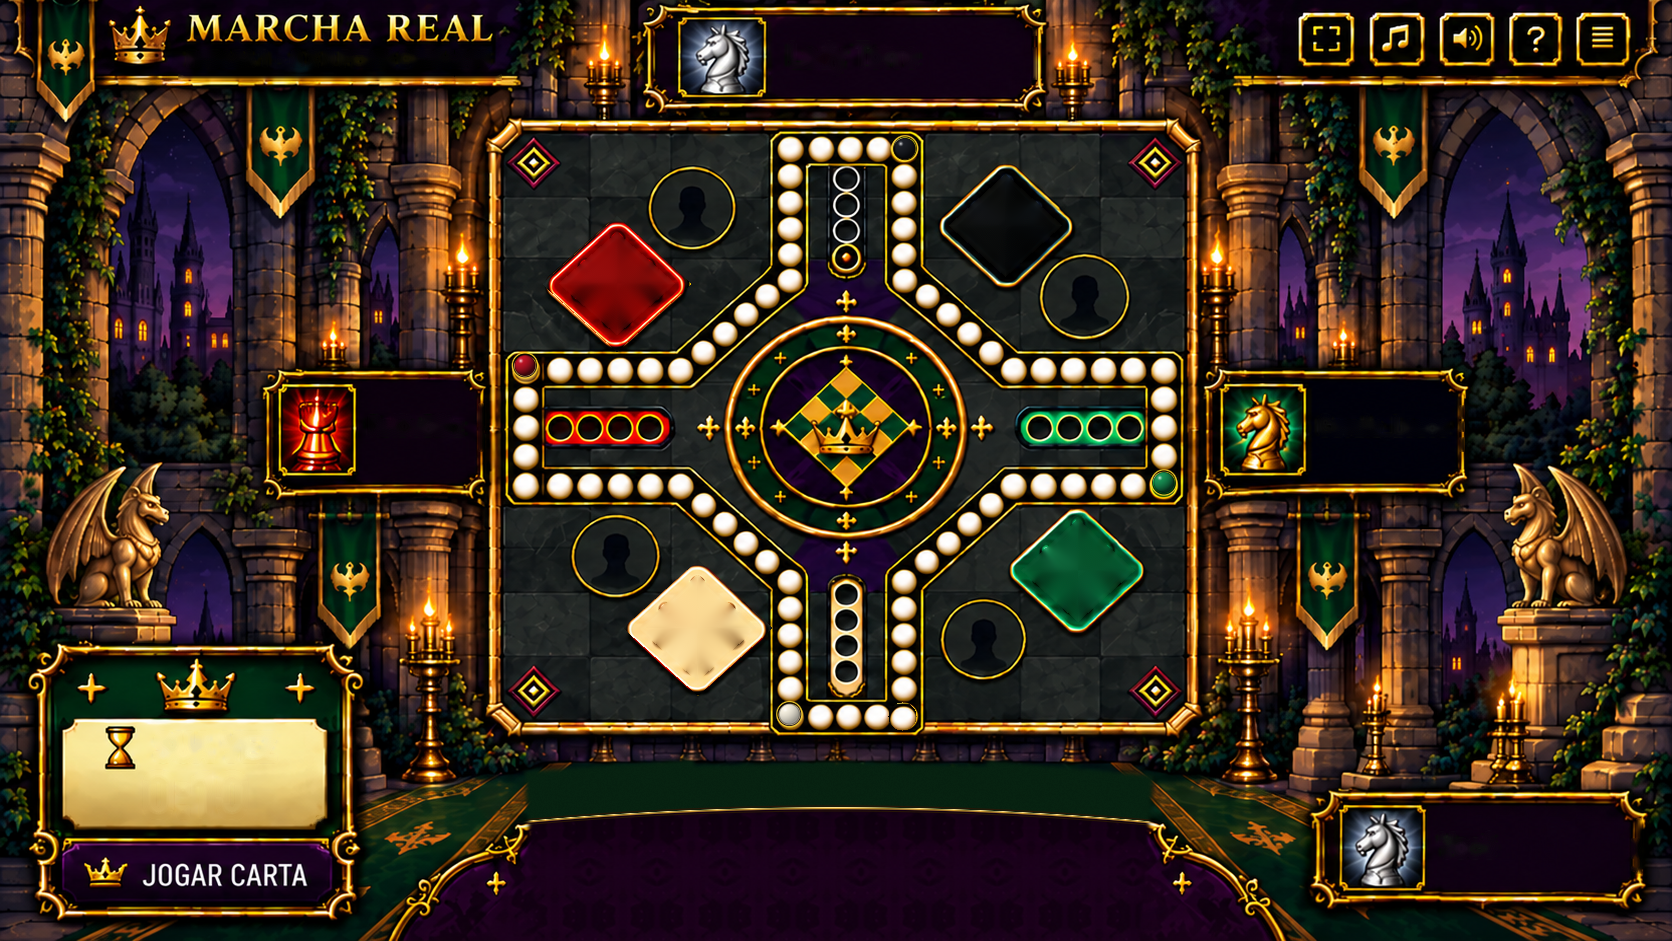
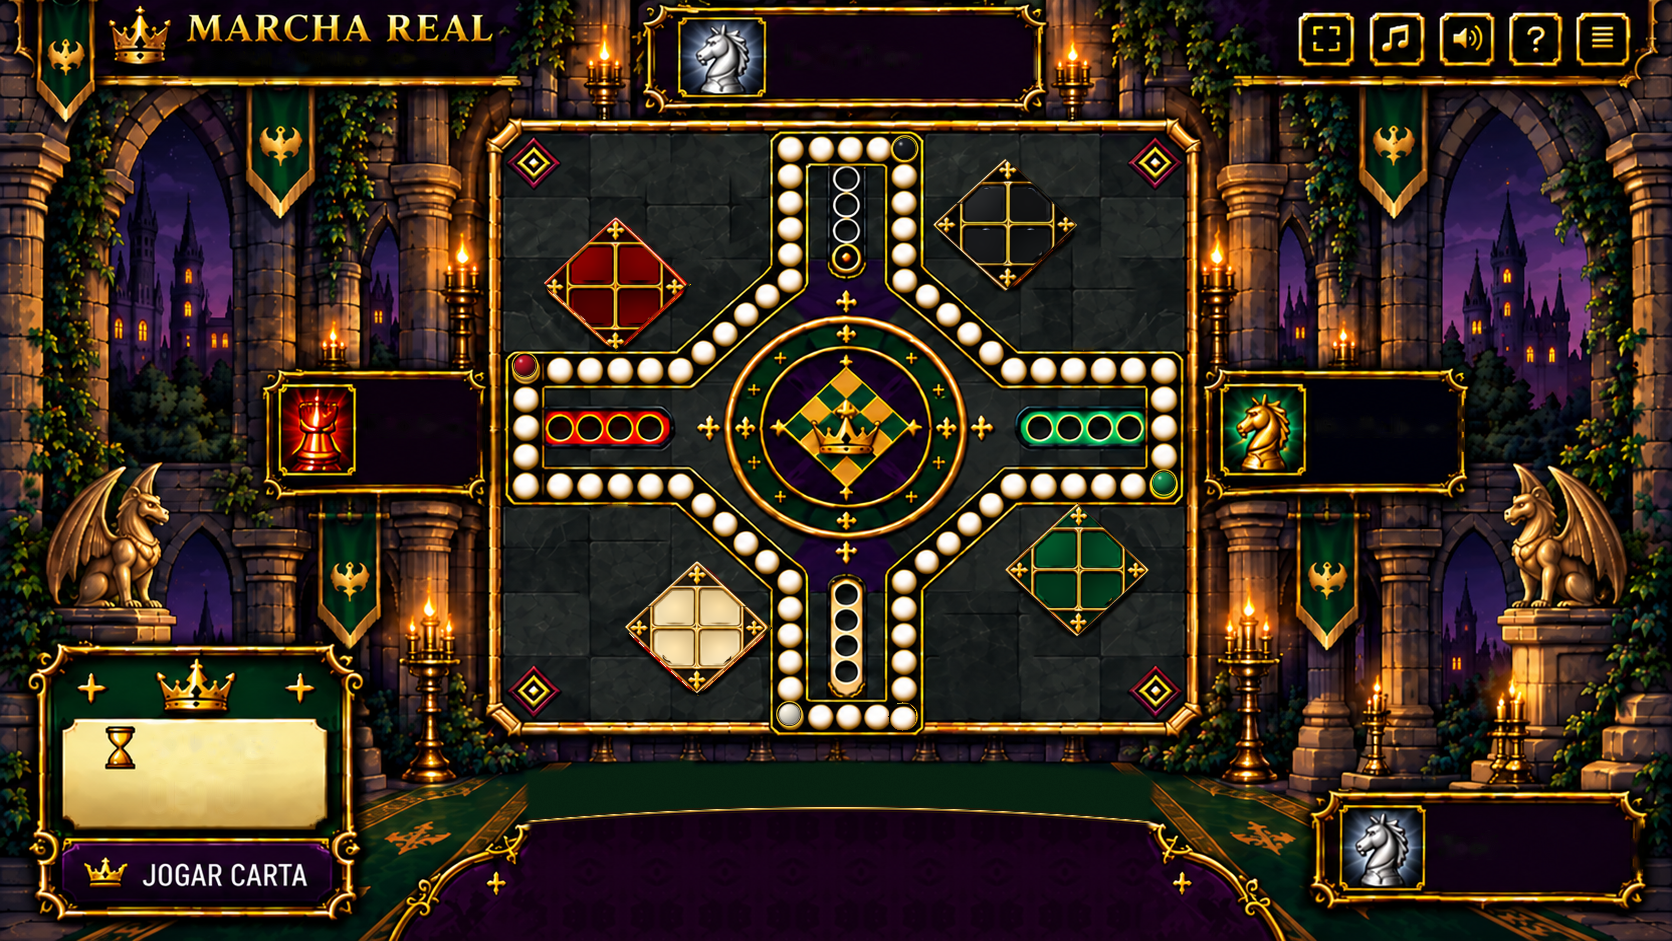
R66 · Marcha (PC): Pátios em grade 2x2 e peões da nova referência; cartas explicadas uma a uma
- tools/marcha_board_r66.py: Pátios recortados da referência do dono (losango com 4 casas e
  flores-de-lis), sem os peões, no lugar dos losangos antigos; os 4 círculos de silhueta saem.
- Peão novo (o mesmo no Pátio e na Muralha) recortado da referência; HOMES do layout = casas da grade.
- COMO JOGAR: AS CARTAS em 2 páginas com cada carta (A: tira, anda 11 ou 1; K; Q; J troca;
  10; 9/8/6/3/2; 7 divide; 5; -4 volta 4).

Claude-Session: https://claude.ai/code/session_016vKvXoMfUjcNC2AWvYdkWV

diff --git a/tools/marcha_board_r66.py b/tools/marcha_board_r66.py
@@ -1,0 +1,243 @@
+#!/usr/bin/env python3
+"""R66 · MARCHA REAL (PC): Pátios e peões no estilo da referência nova do dono (tools/ui_ref/r66/marcha_tabuleiro_ref.png).
+
+O traçado do tabuleiro (Muralha, Salão, Portões) continua o da arte R57 — as casas medidas continuam valendo.
+Muda só o que a referência redesenhou:
+  • PÁTIO: losango com grade 2x2 (4 casas quadradas) e flores-de-lis nas pontas, recortado da referência,
+    sem os peões (o miolo de cada casa é refeito a partir da borda da própria casa) e colado no lugar do losango
+    antigo de cada reino. Os 4 círculos de silhueta (que a referência não tem) saem da mesa.
+  • PEÃO: o peão da referência (o mesmo no Pátio e na Muralha), recortado com transparência.
+  • board_layout_r57.gd: HOMES / HOME_CENTERS passam a ser as 4 casas da grade de cada Pátio.
+Entradas: tools/ui_ref/r66/marcha_tabuleiro_ref.png, marcha/art/r57/mesa.png (versão R57, sem Pátio novo).
+Saídas: marcha/art/r57/mesa.png, mesa_wide.png (via tools/marcha_wide_r65.py), marcha/art/pawns/r66/peao_<reino>.png,
+        HOMES em marcha/board_layout_r57.gd.
+Uso: python3 tools/marcha_board_r66.py   (roda sobre a mesa R57 guardada em tools/ui_ref/r66/mesa_r57.png)
+"""
+import os
+import re
+import subprocess
+import sys
+
+import cv2
+import numpy as np
+from PIL import Image
+
+ROOT = os.path.join(os.path.dirname(os.path.abspath(__file__)), "..")
+REF = os.path.join(ROOT, "tools/ui_ref/r66/marcha_tabuleiro_ref.png")
+MESA_R57 = os.path.join(ROOT, "tools/ui_ref/r66/mesa_r57.png")      # mesa antes do R66 (fonte fixa)
+BOARD_CROP = (480, 110, 1210, 745)
+BOARD_F = 1600.0 / (BOARD_CROP[2] - BOARD_CROP[0])
+SEATS = ["marfim", "rubi", "onix", "esmeralda"]
+
+# Pátios na referência (px 847x834): pontas do losango (esq, cima, dir, baixo) e retângulo da grade 2x2 (dentro do filete)
+REF_BASES = {
+    "rubi": {"tips": (88, 96, 272, 268), "grid": (120, 130, 240, 240)},
+    "onix": {"tips": (532, 62, 718, 240), "grid": (568, 96, 684, 206)},
+    "marfim": {"tips": (115, 502, 320, 700), "grid": (156, 541, 281, 662)},
+    "esmeralda": {"tips": (557, 462, 767, 660), "grid": (600, 501, 726, 622)},
+}
+# Pátio antigo de cada reino na mesa R57 (centro em px do recorte do tabuleiro) — mesmo lugar do novo
+HOMES_R57 = {"marfim": (217.5, 517.0), "rubi": (136.0, 173.5), "onix": (525.0, 115.0), "esmeralda": (597.5, 460.0)}
+NEW_SIZE = (146, 134)        # largura x altura do Pátio novo na mesa (px do recorte do tabuleiro)
+OLD_DIAMOND = (74, 67)       # meia largura / meia altura do losango antigo (com a borda)
+SILHOUETTES = [(603.0, 186.6, 47), (210.6, 99.0, 45), (505.8, 528.6, 44), (137.4, 445.8, 46)]
+
+
+def load(p):
+    return np.array(Image.open(p).convert("RGB"))
+
+
+def cells(grid):
+    x0, y0, x1, y1 = grid
+    mx, my = (x0 + x1) / 2.0, (y0 + y1) / 2.0
+    return [((x0, y0, mx, my)), ((mx, y0, x1, my)), ((x0, my, mx, y1)), ((mx, my, x1, y1))]
+
+
+def coons(a, x0, y0, x1, y1):
+    """Miolo da casa refeito só a partir das 4 bordas dele (interpolação de Coons): degradê liso, sem manchas."""
+    f = a.astype(np.float32)
+    T, B = f[y0, x0:x1 + 1], f[y1, x0:x1 + 1]
+    L, R = f[y0:y1 + 1, x0], f[y0:y1 + 1, x1]
+    h, w = y1 - y0 + 1, x1 - x0 + 1
+    u = np.linspace(0, 1, w)[None, :, None]
+    v = np.linspace(0, 1, h)[:, None, None]
+    P = (1 - u) * L[:, None, :] + u * R[:, None, :] + (1 - v) * T[None, :, :] + v * B[None, :, :] \
+        - ((1 - u) * (1 - v) * f[y0, x0] + u * (1 - v) * f[y0, x1] + (1 - u) * v * f[y1, x0] + u * v * f[y1, x1])
+    a[y0:y1 + 1, x0:x1 + 1] = np.clip(P + 0.5, 0, 255).astype(np.uint8)
+
+
+PAD = 7
+PAWN_CELL = 1   # casa de cima à direita: o corte do losango (canto de cima à direita) fica longe do peão
+
+
+def smooth_cell(a, x0, y0, x1, y1, outer):
+    """Miolo liso da casa: cor dos cantos de dentro (onde o peão não chega) em degradê bilinear, com o centro
+    um pouco mais claro (o brilho da casa da referência). O canto `outer` (0 TL, 1 TR, 2 BL, 3 BR) é cortado
+    pela borda do losango: a cor dele vem dos outros três (plano)."""
+    f = a.astype(np.float32)
+    k = 5
+    tl = f[y0:y0 + k, x0:x0 + k].reshape(-1, 3).mean(0)
+    tr = f[y0:y0 + k, x1 - k + 1:x1 + 1].reshape(-1, 3).mean(0)
+    bl = f[y1 - k + 1:y1 + 1, x0:x0 + k].reshape(-1, 3).mean(0)
+    br = f[y1 - k + 1:y1 + 1, x1 - k + 1:x1 + 1].reshape(-1, 3).mean(0)
+    if outer == 0: tl = tr + bl - br
+    elif outer == 1: tr = tl + br - bl
+    elif outer == 2: bl = tl + br - tr
+    else: br = tr + bl - tl
+    h, w = y1 - y0 + 1, x1 - x0 + 1
+    u = np.linspace(0, 1, w)[None, :, None]
+    v = np.linspace(0, 1, h)[:, None, None]
+    P = (1 - u) * (1 - v) * tl + u * (1 - v) * tr + (1 - u) * v * bl + u * v * br
+    cx, cy = (w - 1) / 2.0, (h - 1) / 2.0
+    yy, xx = np.mgrid[0:h, 0:w]
+    rr = np.sqrt(((xx - cx) / (w / 2.0)) ** 2 + ((yy - cy) / (h / 2.0)) ** 2)
+    P = P * (1.0 + 0.10 * np.clip(1.0 - rr, 0, 1))[..., None]
+    # o canto de fora (borda do losango) fica como está na arte
+    keep = np.zeros((h, w), bool)
+    lim = 0.20 * (w + h)
+    if outer == 0: keep = (xx + yy) < lim
+    elif outer == 1: keep = ((w - 1 - xx) + yy) < lim
+    elif outer == 2: keep = (xx + (h - 1 - yy)) < lim
+    else: keep = ((w - 1 - xx) + (h - 1 - yy)) < lim
+    region = a[y0:y1 + 1, x0:x1 + 1]
+    out = np.clip(P + 0.5, 0, 255).astype(np.uint8)
+    out[keep] = region[keep]
+    a[y0:y1 + 1, x0:x1 + 1] = out
+
+
+def clean_base(ref, spec):
+    """Recorte do Pátio sem os peões: o miolo de cada casa é refeito a partir dos cantos dela."""
+    a = ref.copy()
+    m = np.zeros(a.shape[:2], np.uint8)
+    for i, (x0, y0, x1, y1) in enumerate(cells(spec["grid"])):
+        bx0, by0, bx1, by1 = int(x0 + PAD), int(y0 + PAD), int(x1 - PAD), int(y1 - PAD)
+        smooth_cell(a, bx0, by0, bx1, by1, i)
+        m[by0:by1 + 1, bx0:bx1 + 1] = 255
+    return a, m
+
+
+def pawn_sprite(ref, clean, spec):
+    """Peão de uma casa do Pátio, com transparência: o que difere da casa limpa, dentro do contorno convexo
+    das partes grandes (cabeça, colar, base), sem a borda da casa."""
+    x0, y0, x1, y1 = [int(v) for v in cells(spec["grid"])[PAWN_CELL]]
+    o = ref[y0:y1, x0:x1].astype(np.int32)
+    c = clean[y0:y1, x0:x1].astype(np.int32)
+    d = np.abs(o - c).sum(axis=2)
+    h, w = d.shape
+    inner = np.zeros((h, w), np.uint8)
+    inner[PAD + 2:h - PAD - 2, PAD + 2:w - PAD - 2] = 255
+    yy, xx = np.mgrid[0:h, 0:w]
+    inner[((w - 1 - xx) + yy) < 0.30 * (w + h)] = 0          # canto cortado pelo losango (em cima à direita)
+    strong = ((d > 70).astype(np.uint8) * 255) & inner
+    n, lab, st, _ = cv2.connectedComponentsWithStats(strong)
+    keep = np.zeros_like(strong)
+    for i in range(1, n):
+        if st[i, cv2.CC_STAT_AREA] >= 12: keep[lab == i] = 255
+    pts = cv2.findNonZero(keep)
+    hull = np.zeros_like(keep)
+    cv2.fillConvexPoly(hull, cv2.convexHull(pts), 255)
+    near = cv2.dilate(keep, np.ones((7, 7), np.uint8))                     # só perto das partes fortes
+    soft = cv2.dilate(((d > 34).astype(np.uint8) * 255) & inner, np.ones((3, 3), np.uint8))
+    solid = hull & soft & near
+    solid = cv2.morphologyEx(solid, cv2.MORPH_CLOSE, np.ones((3, 3), np.uint8))
+    alpha = cv2.GaussianBlur(solid.astype(np.float32), (0, 0), 0.5)
+    bx, by, bw, bh = cv2.boundingRect(hull)
+    rgba = np.dstack([ref[y0:y1, x0:x1], np.clip(alpha, 0, 255).astype(np.uint8)])
+    return rgba[by:by + bh, bx:bx + bw]
+
+
+def stone_patch(a, cx, cy, r, src_img):
+    """Tampa um círculo com pedra limpa: procura na referência (na escala da mesa) o pedaço sem ouro/contas cujo
+    anel em volta mais combina com o anel em volta do buraco e cola com borda suave."""
+    hsv = cv2.cvtColor(src_img, cv2.COLOR_RGB2HSV)
+    busy = ((hsv[..., 1] > 110) & (hsv[..., 2] > 110)) | (hsv[..., 2] > 190)
+    R = r + 8
+    yy, xx = np.mgrid[-R:R + 1, -R:R + 1]
+    dist = np.sqrt(xx ** 2 + yy ** 2)
+    ring = (dist > r) & (dist <= R)
+    tgt = a[cy - R:cy + R + 1, cx - R:cx + R + 1].astype(np.float32)
+    best = None
+    H, W = busy.shape
+    integ = cv2.integral(busy.astype(np.uint8))
+    for sy in range(R + 2, H - R - 2, 2):
+        for sx in range(R + 2, W - R - 2, 2):
+            y0, y1, x0, x1 = sy - R, sy + R + 1, sx - R, sx + R + 1
+            if integ[y1, x1] - integ[y0, x1] - integ[y1, x0] + integ[y0, x0] > 0: continue
+            src = src_img[y0:y1, x0:x1].astype(np.float32)
+            e = float(((src - tgt)[ring] ** 2).mean())
+            if best is None or e < best[0]: best = (e, sx, sy)
+    _, sx, sy = best
+    src = src_img[sy - R:sy + R + 1, sx - R:sx + R + 1].astype(np.float32)
+    al = np.clip((R - dist) / 6.0, 0, 1)[..., None]
+    a[cy - R:cy + R + 1, cx - R:cx + R + 1] = np.clip(tgt * (1 - al) + src * al + 0.5, 0, 255).astype(np.uint8)
+
+
+def diamond_alpha(w, h, feather=1.5):
+    yy, xx = np.mgrid[0:h, 0:w].astype(np.float32)
+    d = np.abs(xx - (w - 1) / 2.0) / (w / 2.0) + np.abs(yy - (h - 1) / 2.0) / (h / 2.0)
+    return np.clip((1.0 - d) * (min(w, h) / 2.0) / feather, 0, 1)
+
+
+def main():
+    ref = load(REF)
+    mesa = load(MESA_R57)
+    ox, oy = BOARD_CROP[0], BOARD_CROP[1]
+    # 1) losangos antigos e círculos de silhueta saem da mesa (recomposição a partir da pedra em volta)
+    hole = np.zeros(mesa.shape[:2], np.uint8)
+    for (cx, cy) in HOMES_R57.values():
+        hw, hh = OLD_DIAMOND
+        pts = np.array([[cx + ox, cy + oy - hh], [cx + ox + hw, cy + oy], [cx + ox, cy + oy + hh], [cx + ox - hw, cy + oy]], np.int32)
+        cv2.fillConvexPoly(hole, pts, 255)
+    for (cx, cy, r) in SILHOUETTES:
+        cv2.circle(hole, (int(round(cx + ox)), int(round(cy + oy))), r + 6, 255, -1)
+    avoid = cv2.dilate(hole, np.ones((9, 9), np.uint8))
+    mesa = cv2.inpaint(mesa, hole, 7, cv2.INPAINT_TELEA)
+    k = (BOARD_CROP[2] - BOARD_CROP[0]) / float(ref.shape[1])
+    ref_small = cv2.resize(ref, (int(ref.shape[1] * k), int(ref.shape[0] * k)), interpolation=cv2.INTER_AREA)
+    for (cx, cy, r) in SILHOUETTES:
+        stone_patch(mesa, int(round(cx + ox)), int(round(cy + oy)), r, ref_small)
+    # 2) Pátios novos (recorte da referência, sem peões) + peões novos
+    homes_units, centers_units = {}, {}
+    os.makedirs(os.path.join(ROOT, "marcha/art/pawns/r66"), exist_ok=True)
+    for name, spec in REF_BASES.items():
+        clean, _ = clean_base(ref, spec)
+        sprite = pawn_sprite(ref, clean, spec)
+        Image.fromarray(sprite, "RGBA").save(os.path.join(ROOT, "marcha/art/pawns/r66/peao_%s.png" % name), optimize=True)
+        l, t, r, b = spec["tips"]
+        crop = clean[t:b + 1, l:r + 1]
+        W, H = NEW_SIZE
+        small = cv2.resize(crop, (W, H), interpolation=cv2.INTER_AREA)
+        al = diamond_alpha(W, H)[..., None]
+        cx, cy = HOMES_R57[name]
+        x0, y0 = int(round(cx + ox - W / 2.0)), int(round(cy + oy - H / 2.0))
+        tgt = mesa[y0:y0 + H, x0:x0 + W].astype(np.float32)
+        mesa[y0:y0 + H, x0:x0 + W] = np.clip(tgt * (1 - al) + small.astype(np.float32) * al + 0.5, 0, 255).astype(np.uint8)
+        # casas da grade → coordenadas do tabuleiro (unidades 1600)
+        sx, sy = W / (r - l + 1.0), H / (b - t + 1.0)
+        pts = []
+        for (gx0, gy0, gx1, gy1) in cells(spec["grid"]):
+            px = x0 - ox + ((gx0 + gx1) / 2.0 - l) * sx
+            py = y0 - oy + ((gy0 + gy1) / 2.0 - t) * sy
+            half = (gy1 - gy0) / 2.0 * sy
+            pts.append((round(px * BOARD_F, 1), round((py + half * 0.62) * BOARD_F - 11.0, 1)))   # pé do peão perto do fundo da casa
+        gx = (spec["grid"][0] + spec["grid"][2]) / 2.0
+        gy = (spec["grid"][1] + spec["grid"][3]) / 2.0
+        homes_units[name] = pts
+        centers_units[name] = (round((x0 - ox + (gx - l) * sx) * BOARD_F, 1), round((y0 - oy + (gy - t) * sy) * BOARD_F, 1))
+    Image.fromarray(mesa).save(os.path.join(ROOT, "marcha/art/r57/mesa.png"), optimize=True)
+    # 3) layout: HOMES / HOME_CENTERS das grades novas (ordem dos assentos: Marfim, Rubi, Ônix, Esmeralda)
+    v = lambda p: "Vector2(%.1f, %.1f)" % p
+    lay = os.path.join(ROOT, "marcha/board_layout_r57.gd")
+    s = open(lay, encoding="utf-8").read()
+    homes = "const HOMES := [" + ", ".join("[" + ", ".join(v(p) for p in homes_units[n]) + "]" for n in SEATS) + "]"
+    cents = "const HOME_CENTERS := [" + ", ".join(v(centers_units[n]) for n in SEATS) + "]"
+    s = re.sub(r"^const HOMES := .*$", "## R66 · Pátio em grade 2x2 (tools/marcha_board_r66.py)\n" + homes if "R66" not in s else homes, s, count=1, flags=re.M)
+    s = re.sub(r"^const HOME_CENTERS := .*$", cents, s, count=1, flags=re.M)
+    open(lay, "w", encoding="utf-8", newline="\n").write(s)
+    # 4) laterais da mesa larga (R65) a partir da mesa nova
+    subprocess.run([sys.executable, os.path.join(ROOT, "tools/marcha_wide_r65.py"), ROOT], check=True)
+    print("OK R66")
+
+
+if __name__ == "__main__":
+    main()
